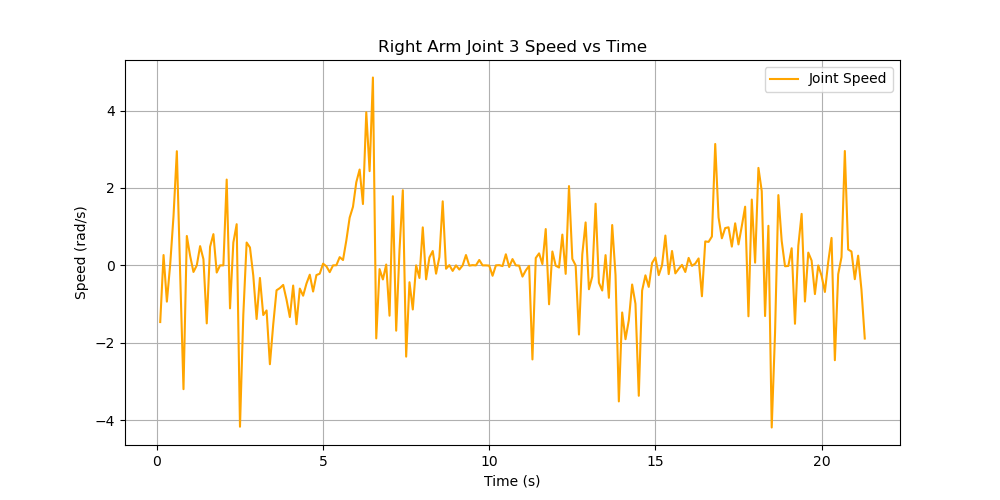
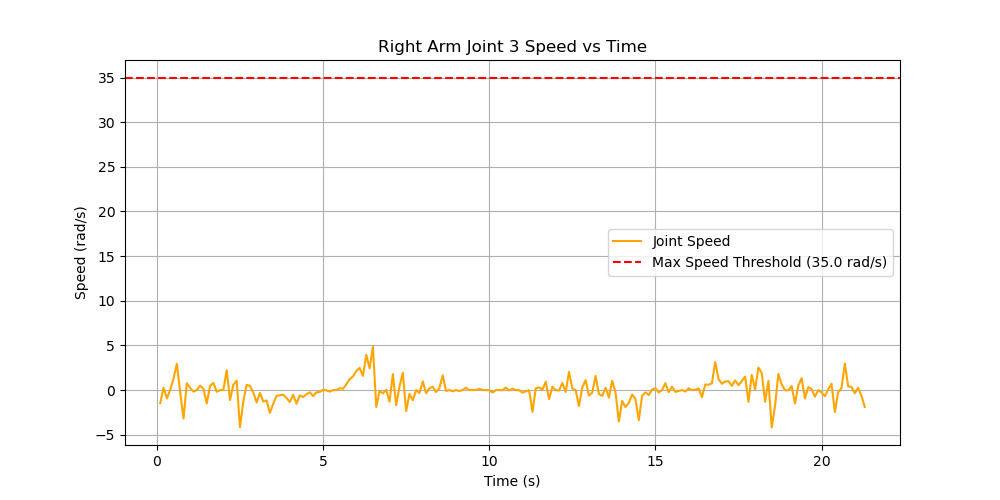
speed threshold

diff --git a/ros_ws/src/kinematics/scripts/csv_plotter.py b/ros_ws/src/kinematics/scripts/csv_plotter.py
@@ -20,7 +20,7 @@ class JointAnglePlotter:
             'left': {i: {'values': [], 'start': 0.0} for i in range(5)},
             'right': {i: {'values': [], 'start': 0.0} for i in range(5)}
         }
-        
+        self.MAX_SPEED_THRESHOLD = 35.0  # rad/s threshold from robot_csv.py
         self.read_csv()
         self.plot_joint_data()
 
@@ -76,6 +76,8 @@ class JointAnglePlotter:
 
         fig, ax = plt.subplots(figsize=(10, 5))
         ax.plot(speed_times, speeds, color='orange', label='Joint Speed')
+        ax.axhline(y=self.MAX_SPEED_THRESHOLD, color='red', linestyle='--', 
+                  label=f'Max Speed Threshold ({self.MAX_SPEED_THRESHOLD} rad/s)')
         ax.set_title(f'{joint_type.capitalize()} Arm Joint {joint_num} Speed vs Time')
         ax.set_xlabel('Time (s)')
         ax.set_ylabel('Speed (rad/s)')
